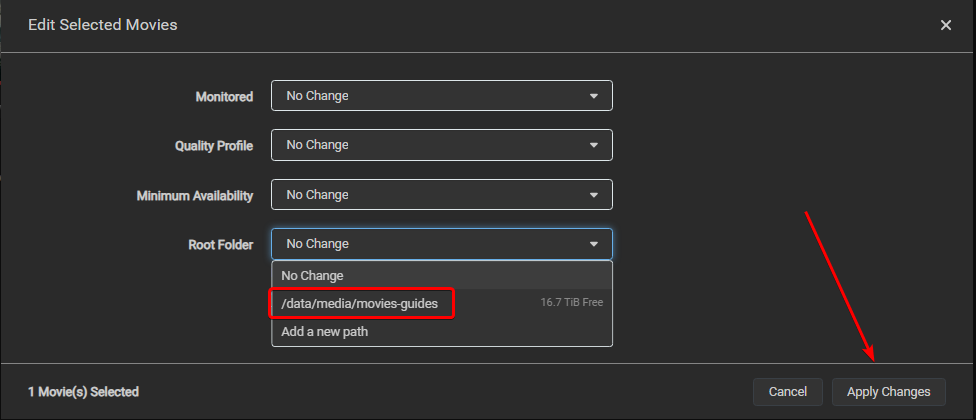
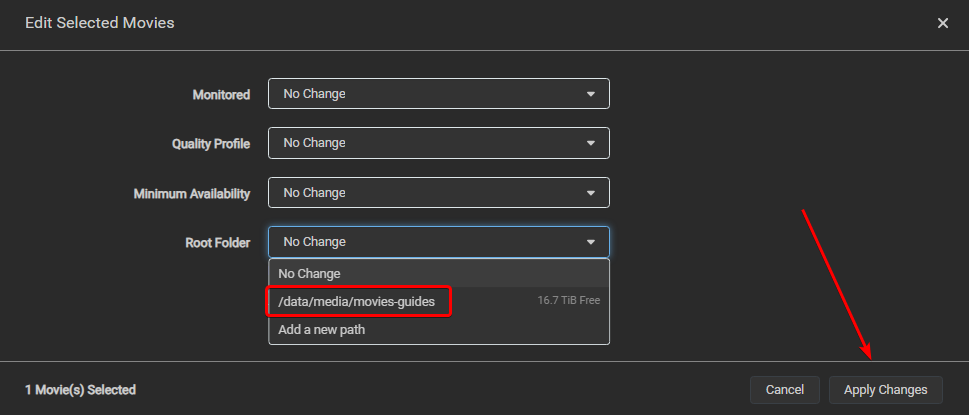
update(radarr/rename): language and screenshot
updated language and cropped 2 screenshots

fix(lint)

diff --git a/docs/Radarr/Tips/Radarr-rename-your-folders.md b/docs/Radarr/Tips/Radarr-rename-your-folders.md
@@ -1,42 +1,44 @@
 # How to rename your folders
 
-If you want to rename your current folder names (for example, to your new naming scheme), you can do that with this little magic trick.
+If you need to rename your current folder names (for example, to a new naming scheme), you can do so with a little "magic trick".
 
 ![!radarr-wrong-folder-name](images/radarr-wrong-folder-name.png)
 
-Please go to the movie overview section.
+Simply go to the movie overview section.
 
 `Movies`
 
-On the top click on `Edit Movies`
+Click on `Edit Movies` (at the top)
 
 ![!radarr-movie-editor](images/radarr-movie-editor.png)
 
-After activating it, you can select the movie(s) from which you want the folder(s) to be renamed.
+Once you are in "edit" mode, you can select the movie(s) whose folders you want to be renamed.
 
 ![!radarr-movie-editor-select](images/radarr-movie-editor-select.png)
 
-1. If you want all your movie folders renamed to your new folder naming scheme you set earlier [HERE](/Radarr/Radarr-recommended-naming-scheme){:target="_blank" rel="noopener noreferrer"}.
-1. Select the movie(s) from where you want to have the folder(s) to be renamed.
+1. If you want all your movie's folders to be renamed with the new naming scheme you set [HERE](/Radarr/Radarr-recommended-naming-scheme){:target="_blank" rel="noopener noreferrer"}.
+1. Select the movie(s) that you want to have the folder(s) renamed.
 1. At the bottom select `Edit`
 
 A new popup will be shown:
 
 ![!radarr-edit-selected-movies](images/radarr-edit-selected-movies.png)
 
-Choose the same root folder and choose `Apply Changes`
+Choose the same (current) root folder for your selected movies, and choose `Apply Changes`.
 
 ![!radarr-movie-editor-move-files-yes](images/radarr-movie-editor-move-files-yes.png)
 
-You will get a new warning popup where you select `Yes, Move the files`
+You will get a warning popup where you will need to choose `Yes, Move the files`
 
 !!! warning
-    If you have a large library, remote storage, cloud storage, or your path structure isn't well planned or doesn't support instant moves, then this process could take a while. Make sure you don't interrupt this process. If it stops before it's complete, it could result in quite the mess.
+    If you have a large library, use remote or cloud storage, or your path structure isn't well planned (or doesn't support instant moves) this could take a while.
 
-Then Magic
+    **Make sure you don't interrupt this process.** If it stops before it has been completed, it could result in quite a mess.
+
+Then, Magic!
 
 ![!radarr-correct-folder-name](images/radarr-correct-folder-name.png)
 
-As you can see, the folder has been renamed to the correct year following your naming scheme.
+As you can see, the folder has now been renamed to the new/updated naming scheme.
 
 --8<-- "includes/support.md"
